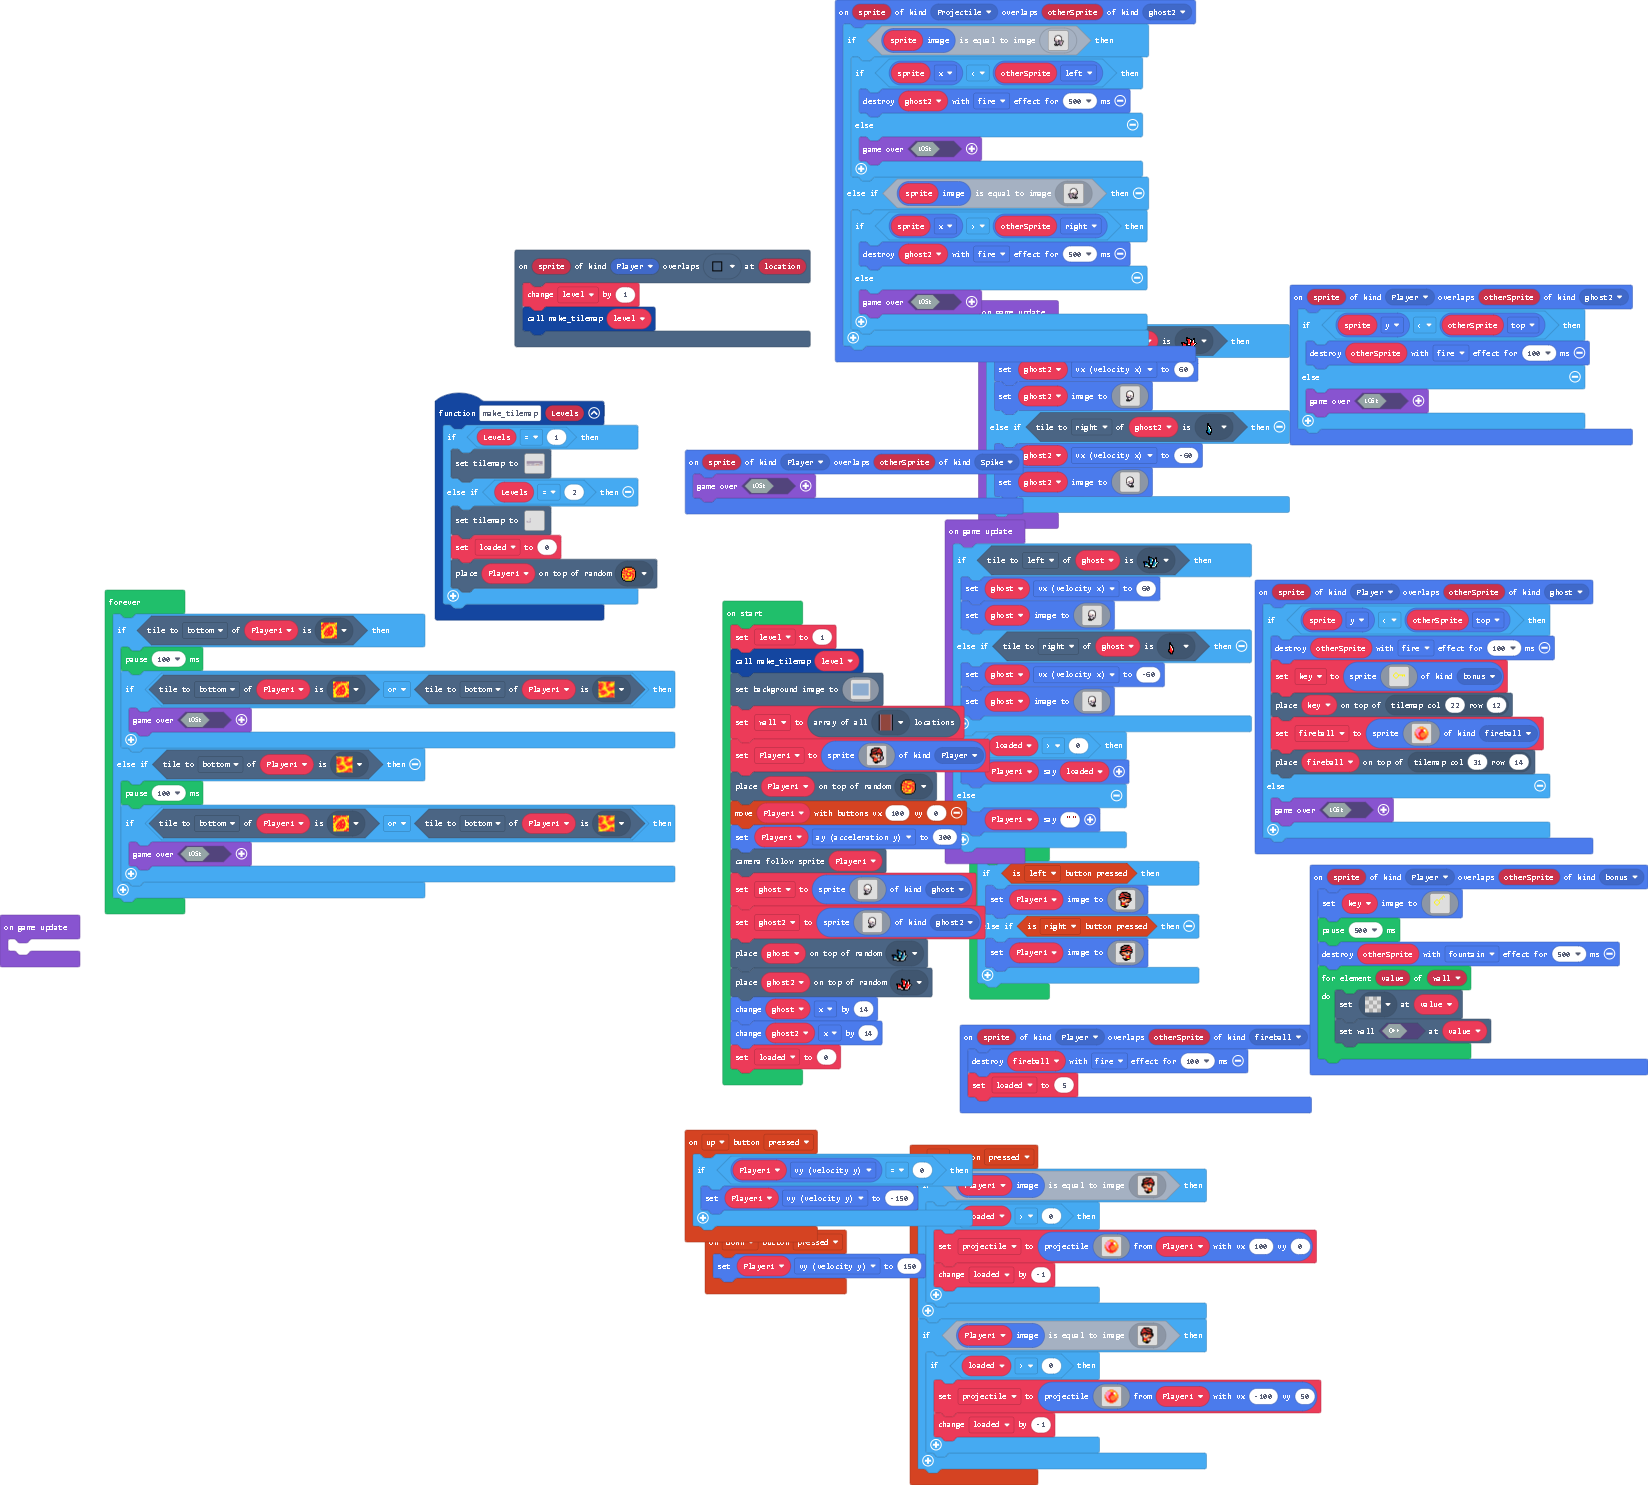
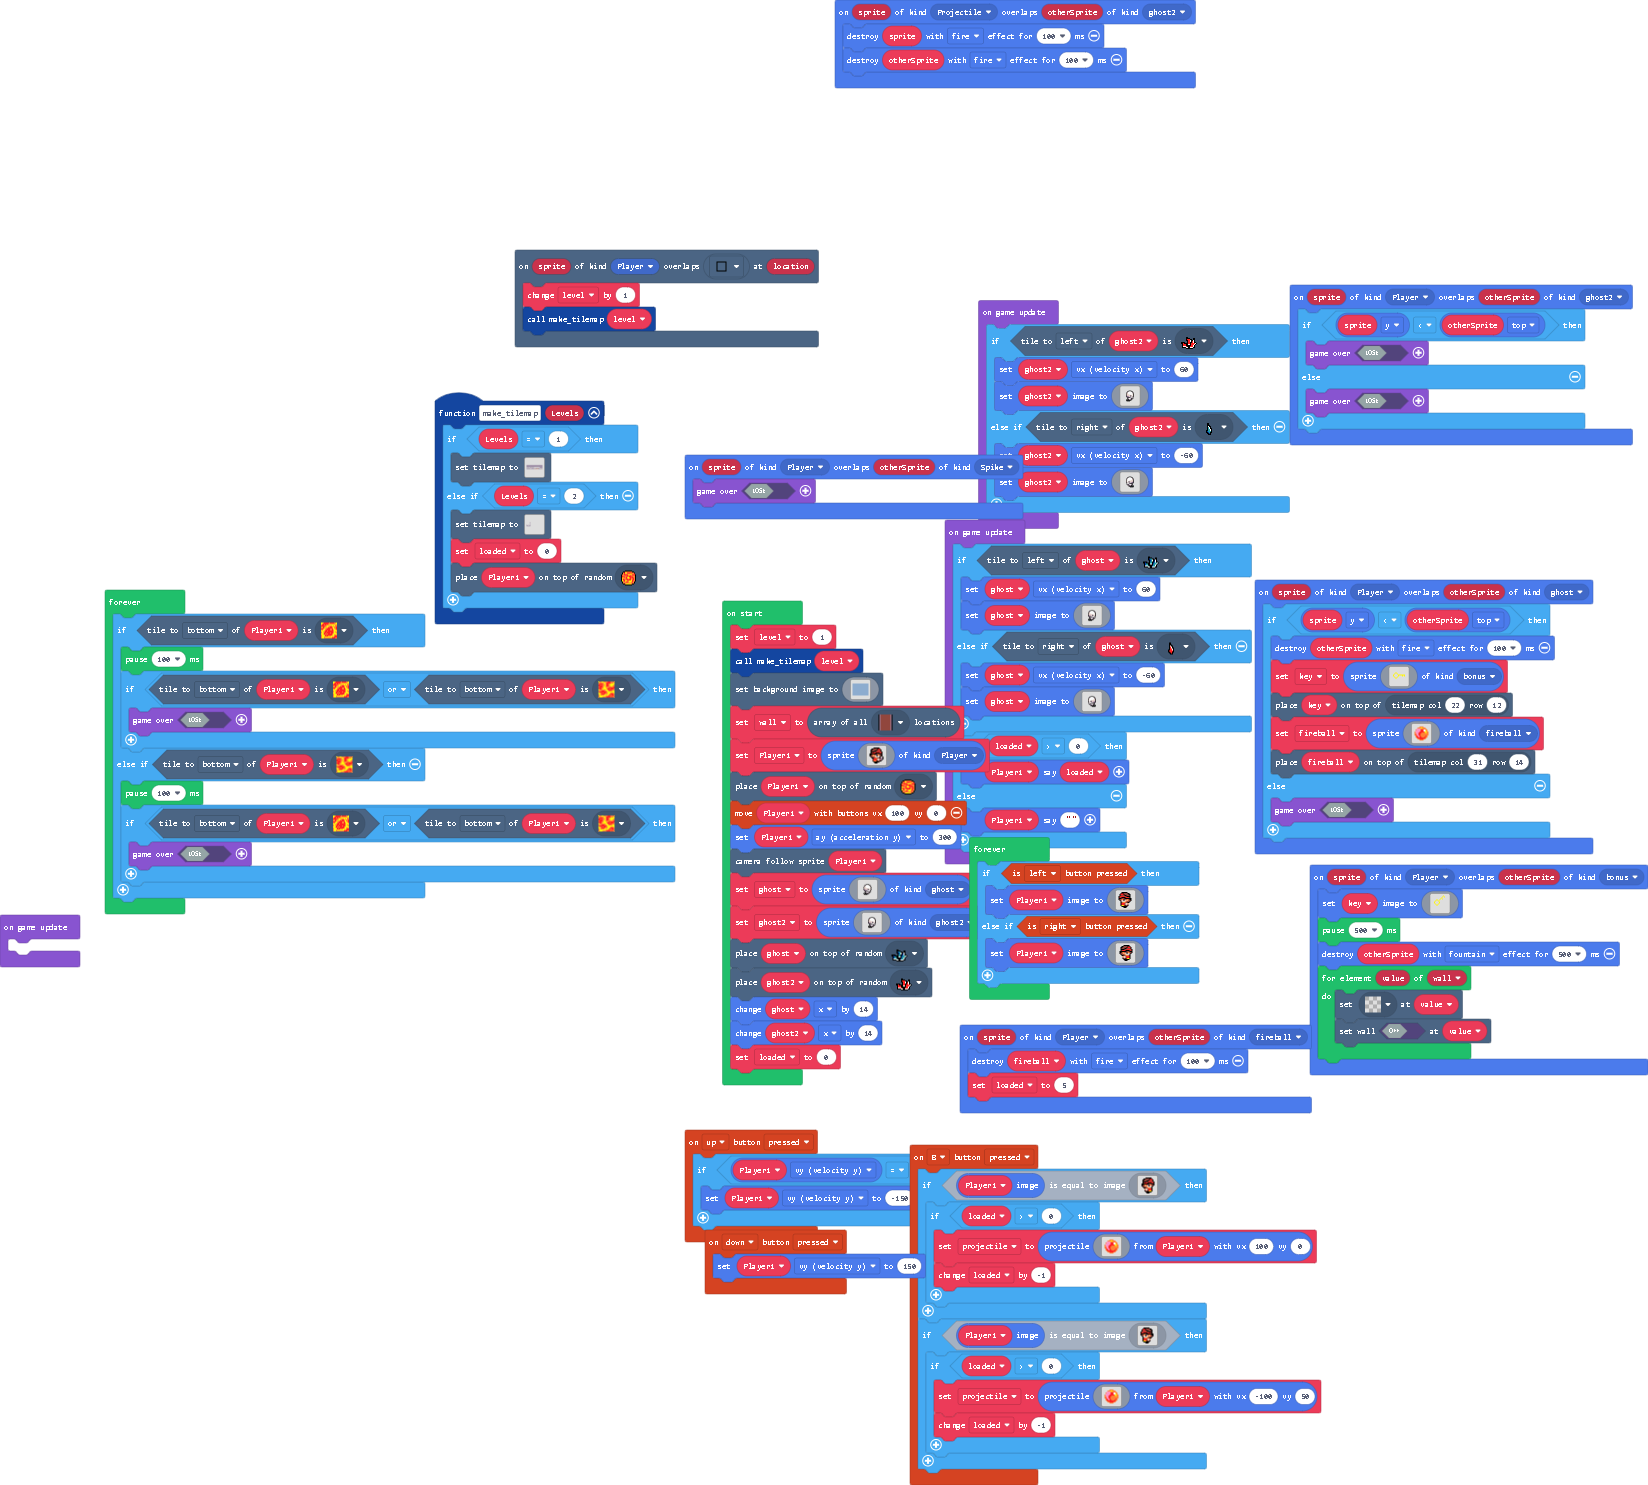
Update pxt.json, main.blocks, main.ts

diff --git a/main.ts b/main.ts
@@ -164,69 +164,8 @@ sprites.onOverlap(SpriteKind.Player, SpriteKind.bonus, function (sprite, otherSp
     }
 })
 sprites.onOverlap(SpriteKind.Projectile, SpriteKind.ghost2, function (sprite, otherSprite) {
-    if (sprite.image.equals(img`
-        ........................
-        ........................
-        ........................
-        ........................
-        ..........ffff..........
-        ........ff1111ff........
-        .......fb111111bf.......
-        .......fd1111111f.......
-        ......fdd1111111df......
-        ......fddd111111df......
-        ......fdddddd111df......
-        ......fbddddbfd1df......
-        ......fcbbbdffffffff....
-        .......fcbb1fcbbbbdf....
-        ........fffffcbbbbdf....
-        ........fb111fcbbdf.....
-        ........ffb1bfcbbdf.....
-        ......f.fffbffcbbdf.....
-        ......fffffffffcdf......
-        .......fffff...ff.......
-        ........................
-        ........................
-        ........................
-        ........................
-        `)) {
-        if (sprite.x < otherSprite.left) {
-            ghost2.destroy(effects.fire, 500)
-        } else {
-            game.over(false)
-        }
-    } else if (sprite.image.equals(img`
-        ........................
-        ........................
-        ........................
-        ........................
-        ..........ffff..........
-        ........ff1111ff........
-        .......fb111111bf.......
-        .......f1111111df.......
-        ......fd1111111ddf......
-        ......fd111111dddf......
-        ......fd111ddddddf......
-        ......fd1dfbddddbf......
-        ....ffffffffdbbbcf......
-        ....fcbbbbdf1bbcf.......
-        ....fcbbbbdfffff........
-        .....fcbbdf111bf........
-        .....fcbbdfb1bff........
-        .....fcbbdffbfff.f......
-        ......fcdfffffffff......
-        .......ff...fffff.......
-        ........................
-        ........................
-        ........................
-        ........................
-        `)) {
-        if (sprite.x > otherSprite.right) {
-            ghost2.destroy(effects.fire, 500)
-        } else {
-            game.over(false)
-        }
-    }
+    sprite.destroy(effects.fire, 100)
+    otherSprite.destroy(effects.fire, 100)
 })
 scene.onOverlapTile(SpriteKind.Player, myTiles.tile16, function (sprite, location) {
     level += 1
@@ -291,7 +230,7 @@ sprites.onOverlap(SpriteKind.Player, SpriteKind.Spike, function (sprite, otherSp
 })
 sprites.onOverlap(SpriteKind.Player, SpriteKind.ghost2, function (sprite, otherSprite) {
     if (sprite.y < otherSprite.top) {
-        otherSprite.destroy(effects.fire, 100)
+        game.over(false)
     } else {
         game.over(false)
     }
@@ -304,7 +243,6 @@ let fireball: Sprite = null
 let key: Sprite = null
 let projectile: Sprite = null
 let loaded = 0
-let ghost2: Sprite = null
 let Player1: Sprite = null
 let wall: tiles.Location[] = []
 let level = 0
@@ -481,7 +419,7 @@ let ghost = sprites.create(img`
     ........................
     ........................
     `, SpriteKind.ghost)
-ghost2 = sprites.create(img`
+let ghost2 = sprites.create(img`
     ........................
     ........................
     ........................
